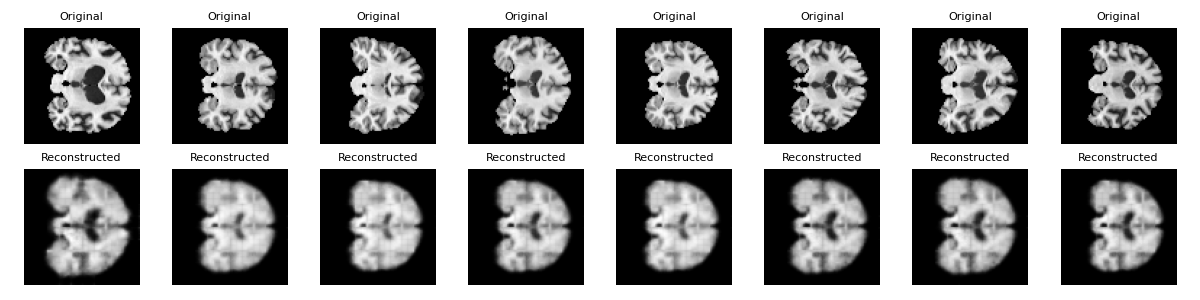
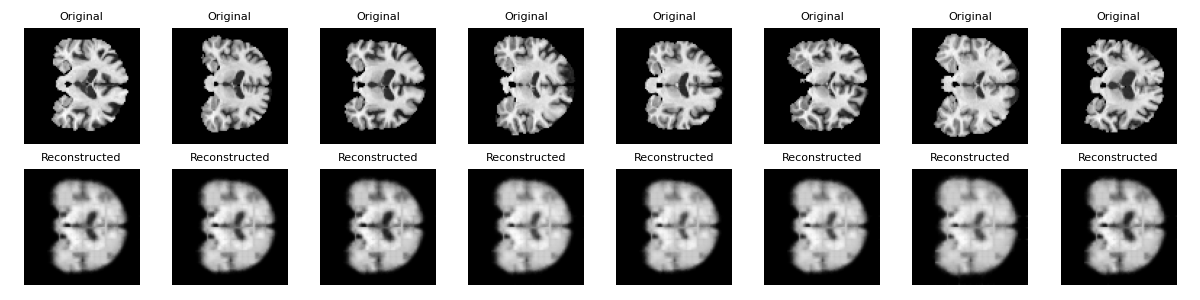
chage cnn_ver2.py

diff --git a/cnn_ver2.py b/cnn_ver2.py
@@ -102,7 +102,6 @@ device = torch.device('cuda' if torch.cuda.is_available() else 'cpu')
 
 # latent dimensions to test
 latent_dims = [2, 8, 16, 32, 64, 128, 256]
-reconstruction_errors_val = []
 reconstruction_errors_test = []
 
 # ===================================
@@ -115,9 +114,12 @@ for latent_dim in latent_dims:
     optimizer = optim.Adam(model.parameters(), lr=1e-3)
     criterion = nn.MSELoss()
 
+    best_val_loss = float("inf")
+    best_model_state = None
+
     # training
-    model.train()
     for epoch in range(100):
+        model.train()
         total_loss = 0
         for x, _ in train_dataloader:
             x = x.to(device)
@@ -127,24 +129,33 @@ for latent_dim in latent_dims:
             loss.backward()
             optimizer.step()
             total_loss += loss.item()
-        print(f"Epoch {epoch+1}, Train Loss: {total_loss/len(train_dataloader):.4f}")
+        avg_train_loss = total_loss / len(train_dataloader)
 
-    # validation loss
-    model.eval()
-    total_loss = 0
-    count = 0
-    with torch.no_grad():
-        for x, _ in val_dataloader:
-            x = x.to(device)
-            x_hat = model(x)
-            loss = criterion(x_hat, x)
-            total_loss += loss.item() * x.size(0)
-            count += x.size(0)
-    avg_loss_val = total_loss / count
-    reconstruction_errors_val.append(avg_loss_val)
-    print(f"Validation Reconstruction Error (MSE): {avg_loss_val:.6f}")
+        # validation
+        model.eval()
+        total_loss = 0
+        count = 0
+        with torch.no_grad():
+            for x, _ in val_dataloader:
+                x = x.to(device)
+                x_hat = model(x)
+                loss = criterion(x_hat, x)
+                total_loss += loss.item() * x.size(0)
+                count += x.size(0)
+        avg_val_loss = total_loss / count
+
+        print(f"Epoch {epoch+1}, Train Loss: {avg_train_loss:.4f}, Val Loss: {avg_val_loss:.4f}")
+
+        # モデル保存（valが改善したときだけ）
+        if avg_val_loss < best_val_loss:
+            best_val_loss = avg_val_loss
+            best_model_state = model.state_dict()
+
+    # best modelで評価
+    model.load_state_dict(best_model_state)
 
     # test loss
+    model.eval()
     total_loss = 0
     count = 0
     with torch.no_grad():
@@ -158,8 +169,8 @@ for latent_dim in latent_dims:
     reconstruction_errors_test.append(avg_loss_test)
     print(f"Test Reconstruction Error (MSE): {avg_loss_test:.6f}")
 
-    # save reconstruction images (from validation set)
-    test_imgs = next(iter(val_dataloader))[0][:8].to(device)
+    # save reconstruction images (from test set)
+    test_imgs = next(iter(test_dataloader))[0][:8].to(device)
     with torch.no_grad():
         reconstructed = model(test_imgs)
 
@@ -176,16 +187,15 @@ for latent_dim in latent_dims:
     plt.savefig(f'reconstructed_image_ver2_DeepCNN_100epoch/reconstructed_grid_latent_{latent_dim}.png')
     plt.close()
 
-# plot reconstruction error (val + test)
+# plot reconstruction error (test only)
 plt.figure(figsize=(8, 5))
-plt.plot(latent_dims, reconstruction_errors_val, marker='o', linestyle='-', label="Validation")
-plt.plot(latent_dims, reconstruction_errors_test, marker='s', linestyle='--', label="Test")
-plt.title("Latent Dimension vs Reconstruction Error (3D CNN AE)")
+plt.plot(latent_dims, reconstruction_errors_test, marker='o', linestyle='-', label="Test")
+plt.title("Latent Dimension vs Reconstruction Error (Test Only)")
 plt.xlabel("Latent Dimension")
 plt.ylabel("Reconstruction Error (MSE)")
 plt.legend()
 plt.grid(True)
-plt.savefig("reconstructed_image_ver2_DeepCNN_100epoch/reconstruction_error_plot.png")
+plt.savefig("reconstructed_image_ver2_DeepCNN_100epoch/reconstruction_error_plot_test_only.png")
 plt.close()
 
-print("\n✅ Done: Reconstruction images and error plot saved.")
+print("\n✅ Done: Reconstruction images and test-only error plot saved.")
